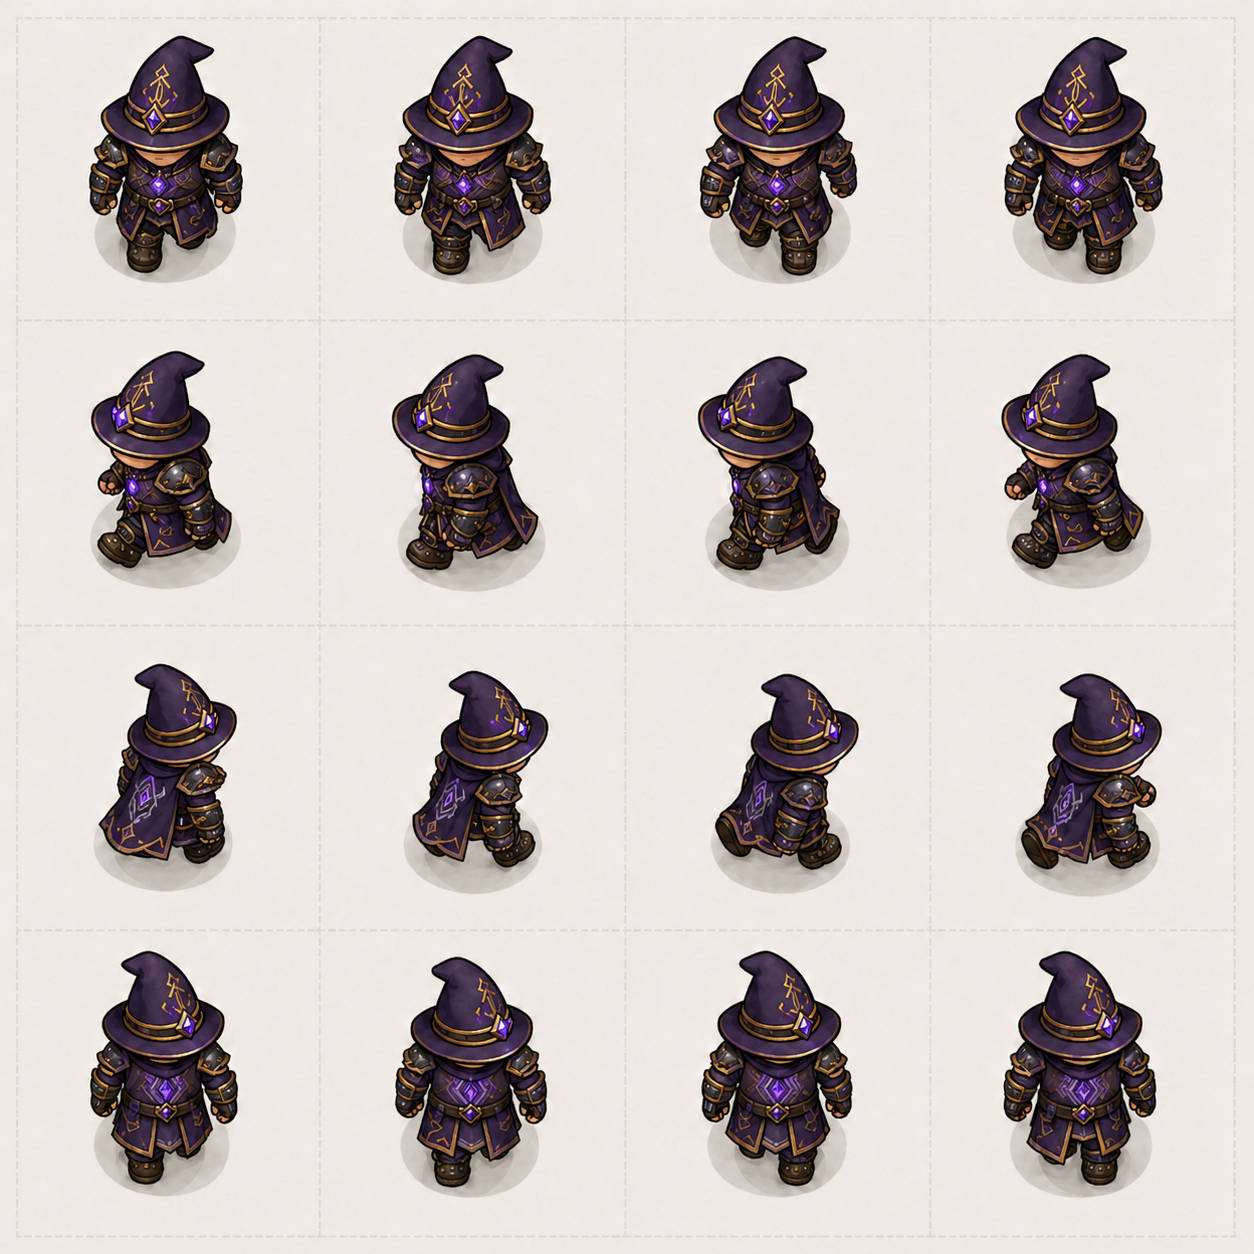
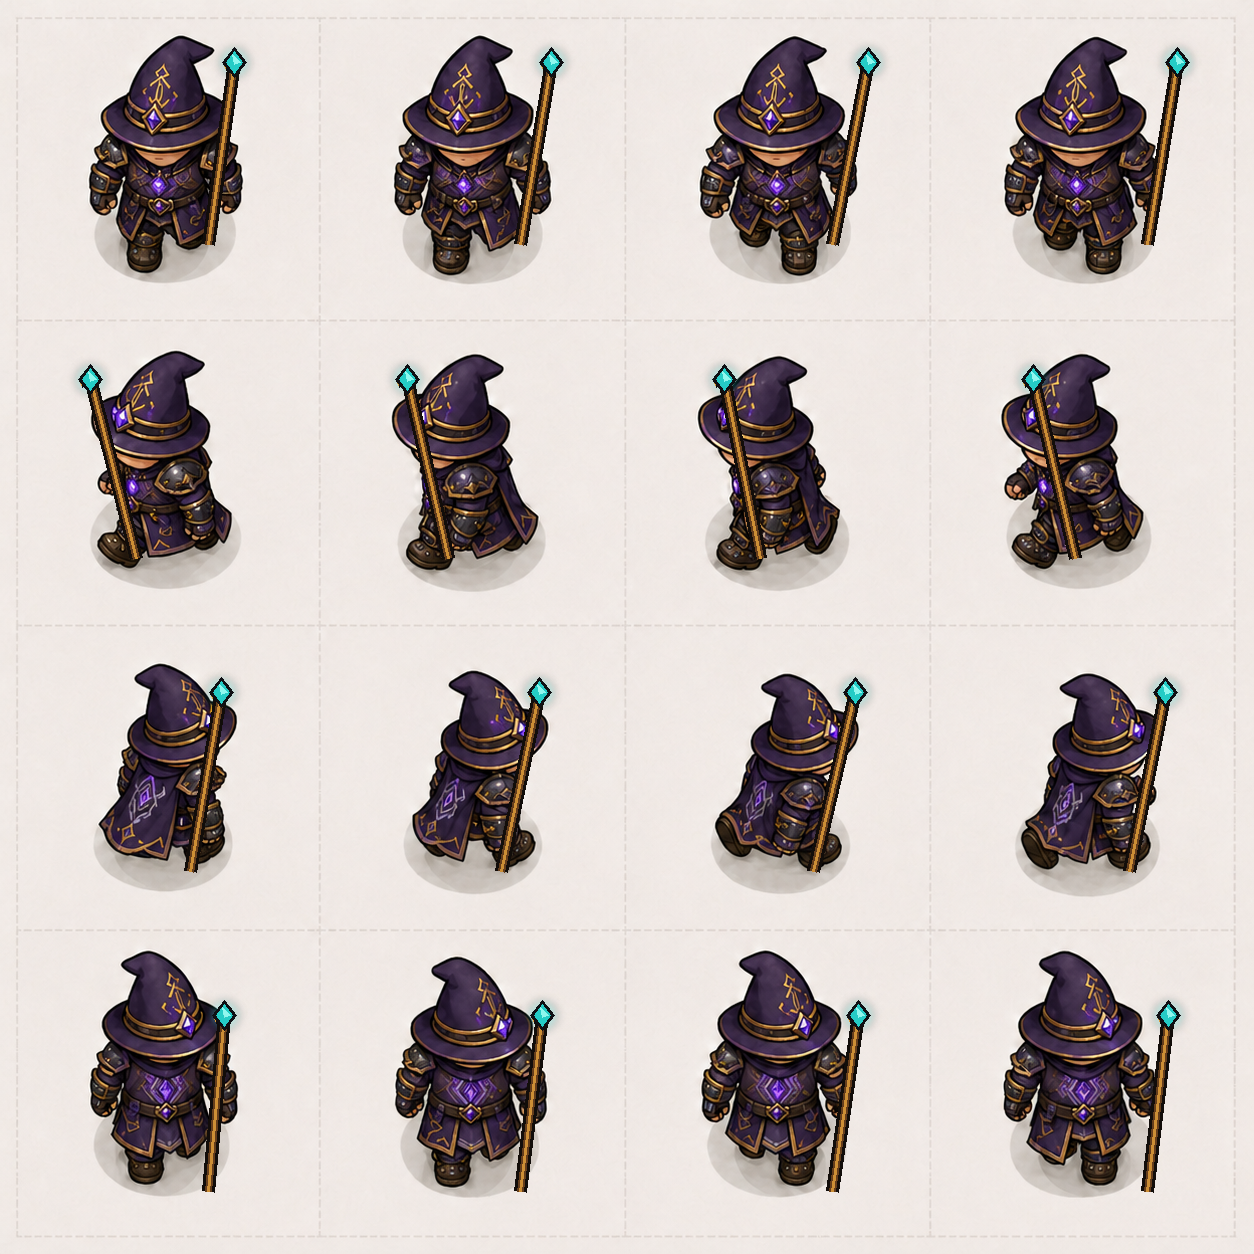
Add mage staff attack effects

diff --git a/src/game.js b/src/game.js
@@ -107,6 +107,8 @@ function createPlayer() {
     maxHp: 115,
     potions: 3,
     attackCooldown: 0,
+    castTimer: 0,
+    castAngle: 0,
     gateCooldown: 0,
     room: "starter",
     dead: false,
@@ -1025,17 +1027,24 @@ function firePlayerProjectile(angle) {
   if (player.attackCooldown > 0) return;
   const weapon = gear.weapon[player.gear.weapon];
   const speed = projectileSpeedForWeapon(weapon.tag);
+  const magicAttack = weapon.tag === "Magic";
   playerProjectiles.push({
     x: player.x + Math.cos(angle) * 24,
     y: player.y + Math.sin(angle) * 24,
     vx: Math.cos(angle) * speed,
     vy: Math.sin(angle) * speed,
-    r: weapon.tag === "Magic" ? 8 : 6,
+    r: magicAttack ? 11 : 6,
     damage: Math.round(player.stats.damage * (0.78 + Math.random() * 0.44)),
-    color: weapon.color,
+    color: magicAttack ? "#48efe4" : weapon.color,
     ttl: projectileTravelTime(weapon, speed),
+    age: 0,
+    heavy: magicAttack,
     tag: weapon.tag,
   });
+  if (magicAttack) {
+    player.castTimer = 0.36;
+    player.castAngle = angle;
+  }
   player.attackCooldown = weapon.speed;
   ui.status.textContent = `Firing ${weapon.name}.`;
 }
@@ -2574,6 +2583,7 @@ function winFight() {
 
 function update(dt) {
   movePlayer(dt);
+  player.castTimer = Math.max(0, player.castTimer - dt);
   updateRoom(dt);
   updateCombat(dt);
   updateHazards(dt);
@@ -2592,6 +2602,7 @@ function update(dt) {
 function updatePlayerProjectiles(dt) {
   playerProjectiles = playerProjectiles.filter((projectile) => {
     projectile.ttl -= dt;
+    projectile.age = (projectile.age || 0) + dt;
     projectile.x += projectile.vx * dt;
     projectile.y += projectile.vy * dt;
     const hitBoss = livingBosses().find((target) => distance(projectile, target) < target.radius + projectile.r);
@@ -3435,12 +3446,26 @@ function drawPlayerProjectiles() {
     ctx.translate(projectile.x, projectile.y);
     ctx.rotate(angle);
     if (projectile.tag === "Magic") {
-      ctx.fillStyle = projectile.color;
+      const pulse = Math.sin((projectile.age || 0) * 24) * 0.5 + 0.5;
       ctx.shadowColor = projectile.color;
-      ctx.shadowBlur = 12;
+      ctx.shadowBlur = 20 + pulse * 10;
+      ctx.fillStyle = "rgba(72, 239, 228, 0.2)";
       ctx.beginPath();
-      ctx.arc(0, 0, projectile.r, 0, Math.PI * 2);
+      ctx.ellipse(-18, 0, 26, 10, 0, 0, Math.PI * 2);
       ctx.fill();
+      ctx.fillStyle = "#dffffc";
+      ctx.shadowColor = projectile.color;
+      ctx.shadowBlur = 16;
+      ctx.beginPath();
+      ctx.arc(0, 0, projectile.r * 0.7, 0, Math.PI * 2);
+      ctx.fill();
+      ctx.strokeStyle = projectile.color;
+      ctx.lineWidth = 3;
+      ctx.beginPath();
+      ctx.moveTo(-30, -6);
+      ctx.lineTo(-8, 0);
+      ctx.lineTo(-30, 6);
+      ctx.stroke();
     } else if (projectile.tag === "Ranged") {
       ctx.strokeStyle = projectile.color;
       ctx.lineWidth = 4;
@@ -3460,13 +3485,15 @@ function drawPlayerProjectiles() {
 
 function drawPlayer() {
   drawRing(player.x, player.y, player.radius + 7, player.dead ? "#c7443b" : "#92d4ff");
+  if (player.castTimer > 0) drawMageCastAura();
   const outfit = playerOutfitSprite();
   if (outfit || (playerSprite.complete && playerSprite.naturalWidth > 0)) {
     drawPlayerSprite();
   } else {
     drawFallbackPlayer();
   }
-  if (isMageArmorCombo() && !outfit) drawGlassMageOutfit();
+  if (isGlassMageBuild() && !outfit) drawGlassMageOutfit();
+  if (player.castTimer > 0) drawMageCastBurst();
   if (player.destination) drawRing(player.destination.x, player.destination.y, 11, "#e9f6df");
 }
 
@@ -3476,10 +3503,6 @@ function isGlassMageBuild() {
 
 function isFastMageBuild() {
   return player.gear.weapon === "pulseStaff" && player.gear.armor === "duelistCoat";
-}
-
-function isMageArmorCombo() {
-  return isGlassMageBuild() || isFastMageBuild();
 }
 
 function playerOutfitSprite() {
@@ -3578,6 +3601,63 @@ function drawFallbackPlayer() {
   ctx.moveTo(player.x + 12, player.y + 4);
   ctx.lineTo(player.x + 34, player.y - 8);
   ctx.stroke();
+}
+
+function drawMageCastAura() {
+  const progress = 1 - player.castTimer / 0.36;
+  const alpha = clamp(1 - progress, 0, 1);
+  const pulse = Math.sin(progress * Math.PI);
+  ctx.save();
+  ctx.globalAlpha = 0.75 * alpha;
+  ctx.strokeStyle = "#48efe4";
+  ctx.fillStyle = "rgba(72, 239, 228, 0.14)";
+  ctx.shadowColor = "#48efe4";
+  ctx.shadowBlur = 20;
+  ctx.lineWidth = 3;
+  ctx.beginPath();
+  ctx.arc(player.x, player.y - 16, 28 + pulse * 16, 0, Math.PI * 2);
+  ctx.fill();
+  ctx.stroke();
+  ctx.strokeStyle = "rgba(220, 255, 252, 0.75)";
+  ctx.beginPath();
+  ctx.arc(player.x, player.y - 16, 15 + pulse * 26, Math.PI * 0.15, Math.PI * 1.65);
+  ctx.stroke();
+  ctx.restore();
+}
+
+function drawMageCastBurst() {
+  const progress = 1 - player.castTimer / 0.36;
+  const alpha = clamp(1 - progress, 0, 1);
+  const angle = player.castAngle || 0;
+  const muzzleX = player.x + Math.cos(angle) * 32;
+  const muzzleY = player.y - 18 + Math.sin(angle) * 32;
+  ctx.save();
+  ctx.translate(muzzleX, muzzleY);
+  ctx.rotate(angle);
+  ctx.globalAlpha = alpha;
+  ctx.shadowColor = "#48efe4";
+  ctx.shadowBlur = 24;
+  ctx.fillStyle = "rgba(72, 239, 228, 0.5)";
+  ctx.beginPath();
+  ctx.moveTo(34 + progress * 18, 0);
+  ctx.lineTo(-8, -13 - progress * 7);
+  ctx.lineTo(2, 0);
+  ctx.lineTo(-8, 13 + progress * 7);
+  ctx.closePath();
+  ctx.fill();
+  ctx.fillStyle = "#e8fffc";
+  ctx.beginPath();
+  ctx.arc(0, 0, 9 + progress * 6, 0, Math.PI * 2);
+  ctx.fill();
+  ctx.strokeStyle = "#48efe4";
+  ctx.lineWidth = 3;
+  for (let i = -1; i <= 1; i += 1) {
+    ctx.beginPath();
+    ctx.moveTo(-8, i * 8);
+    ctx.lineTo(30 + progress * 22, i * 14);
+    ctx.stroke();
+  }
+  ctx.restore();
 }
 
 function drawGlassMageOutfit() {

diff --git a/index.html b/index.html
@@ -64,6 +64,6 @@
       </aside>
     </main>
 
-    <script src="./src/game.js?v=20260427-29"></script>
+    <script src="./src/game.js?v=20260427-32"></script>
   </body>
 </html>
